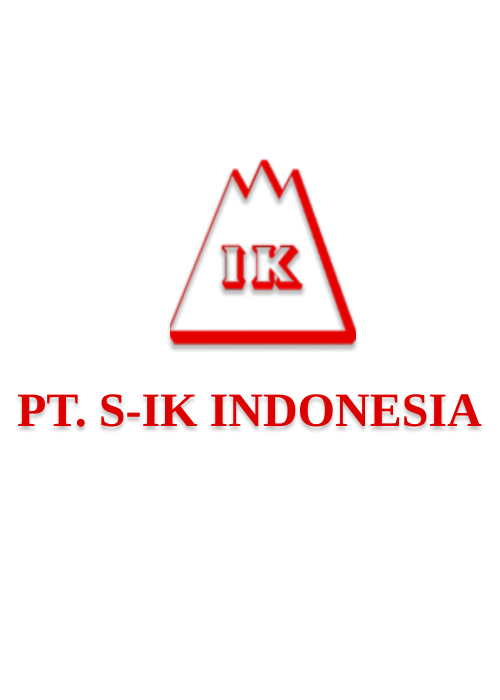
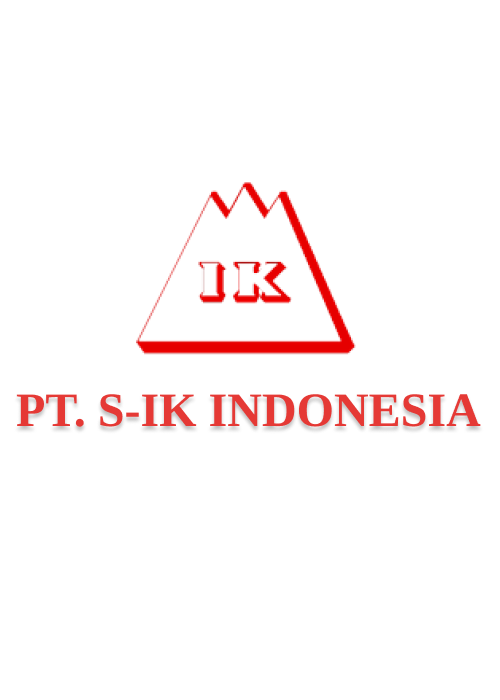
k

diff --git a/index.html b/index.html
@@ -16,12 +16,12 @@
 <body class="bg-white">
   
 
-  <div class="row justify-content-center " >
-    <div class="col-lg-8 col-8 grid border">
+  <div class="row justify-content-center "  >
+    <div class="col-lg-8 col-8 grid border-right">
       <video class="video-fluid" autoplay loop controls muted>
         <source style="height: 800px;" src="./welcome.mp4" type="video/mp4" />
       </video>
-      <div style="background-color: rgba(220, 0, 0, 0.849); height: 8em;">
+      <div style="background-image: linear-gradient(to right, #e53935 , #e35d5b); height: 8em;">
 
         <div style="font-size: 50px;  font-family: 'PT Serif', serif; " class="text-center font-weight-bold text-white pt-4">
           <script>
@@ -47,7 +47,7 @@
 
       </div>
     </div>
-    <div class="col-lg-4 col-4 grid border">
+    <div class="col-lg-4 col-4 grid border-bottom">
       <div id="carouselExampleSlidesOnly" class="carousel slide" data-ride="carousel">
         <div class="carousel-inner">
           <div class="carousel-item active">

diff --git a/css/style.min.css b/css/style.min.css
@@ -12,7 +12,7 @@
    .demo-1 h1 {
     font-family: 'Arial', serif;
     font-size: 4em;
-    color: rgba(220, 0, 0, 0.849);
+    color: #e53935;
     position: absolute;
     width: 100%;
     height: 100%;
